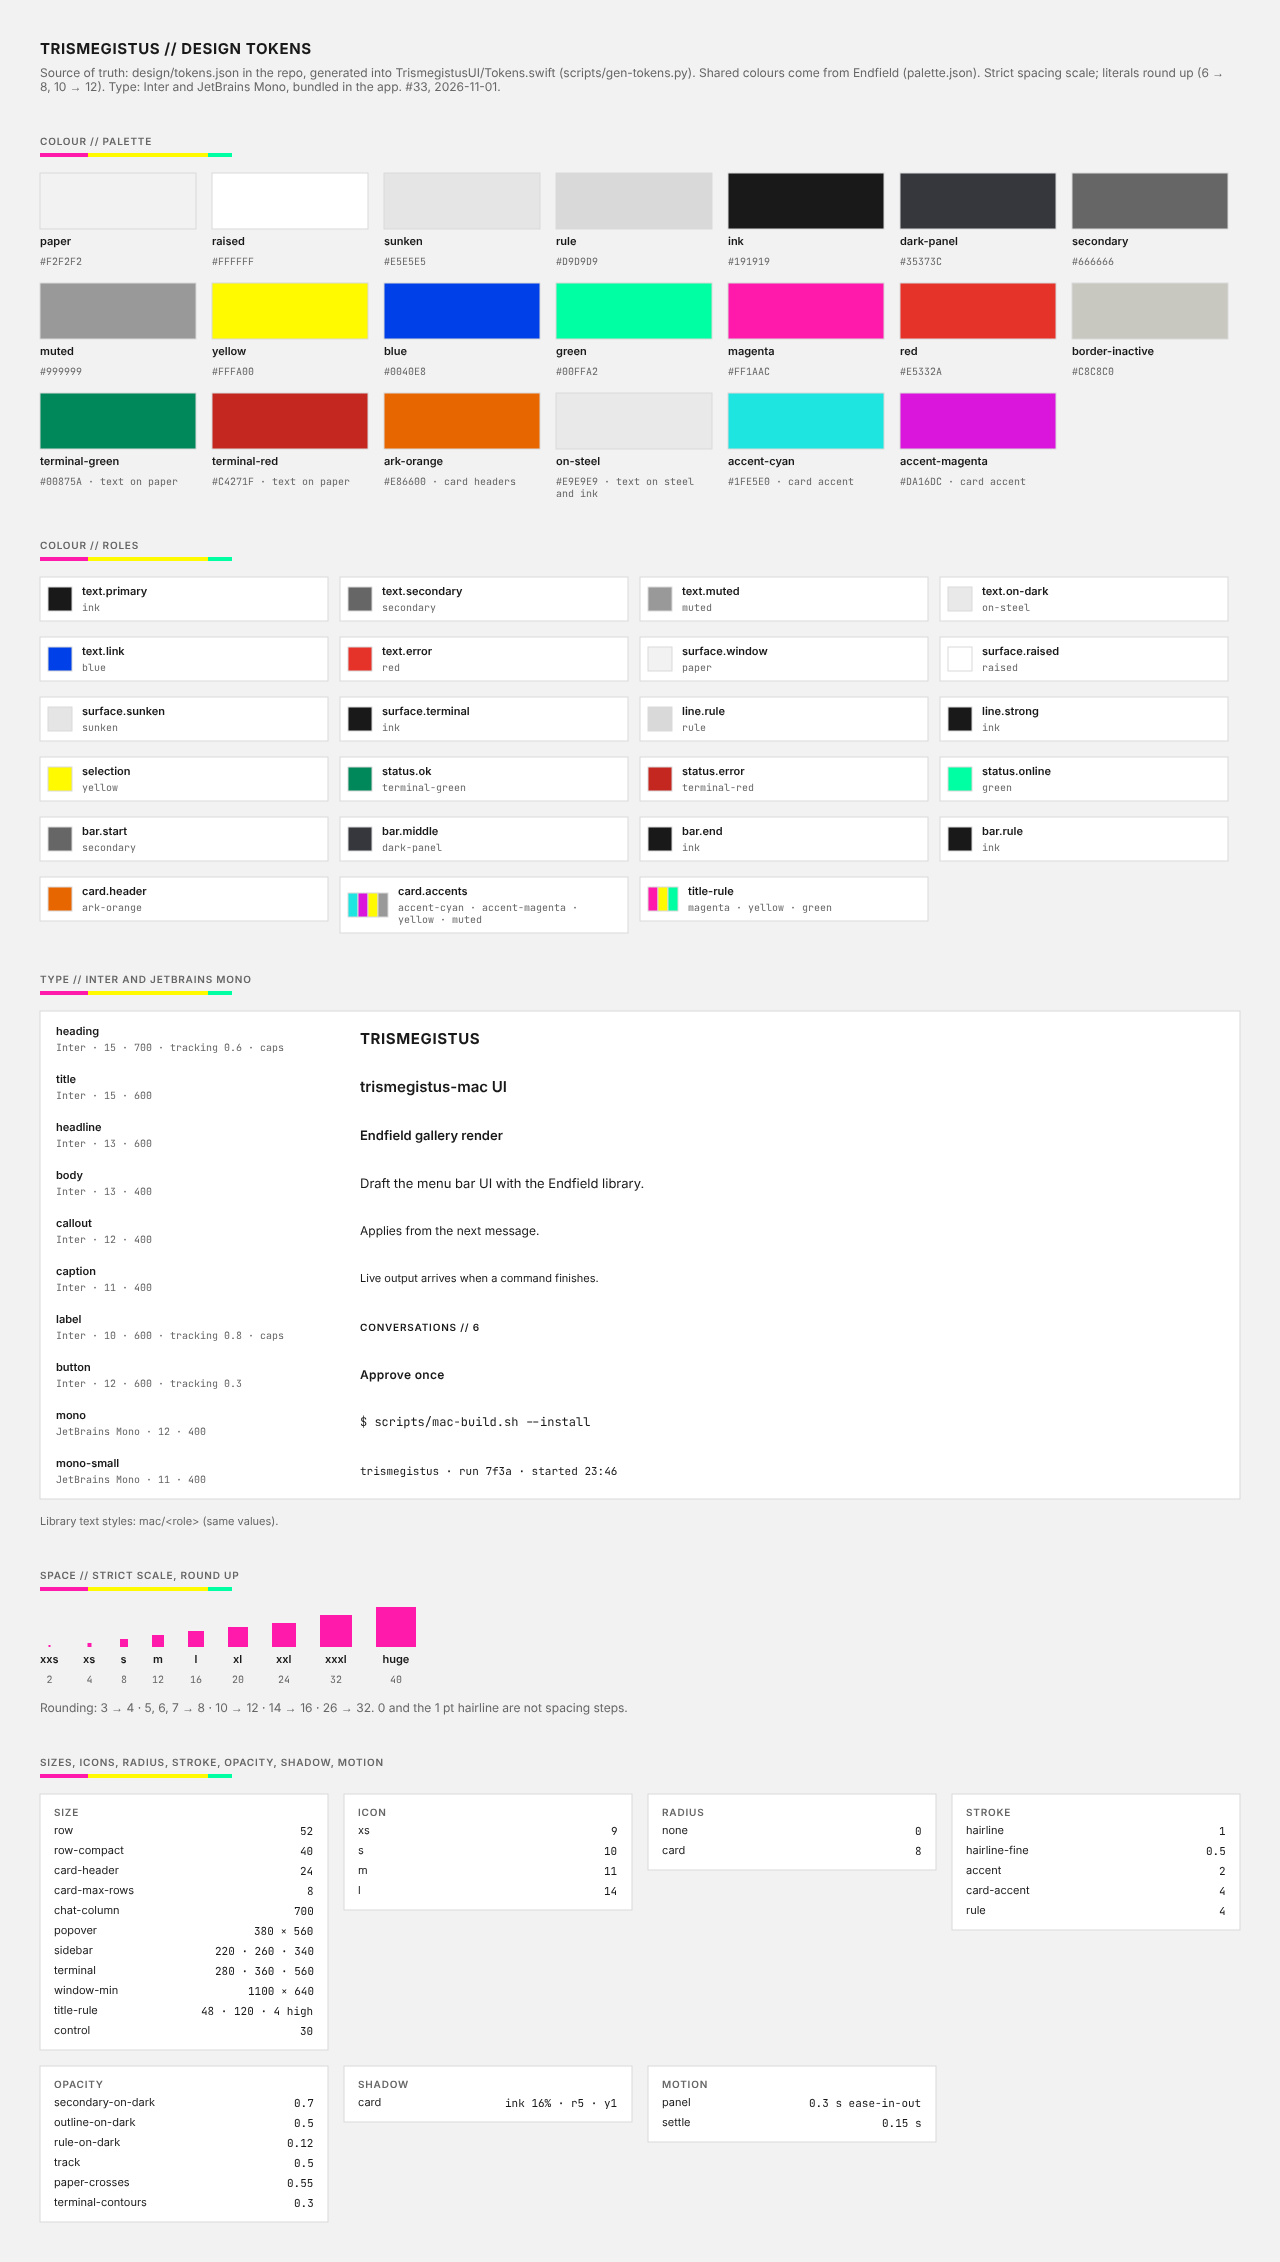
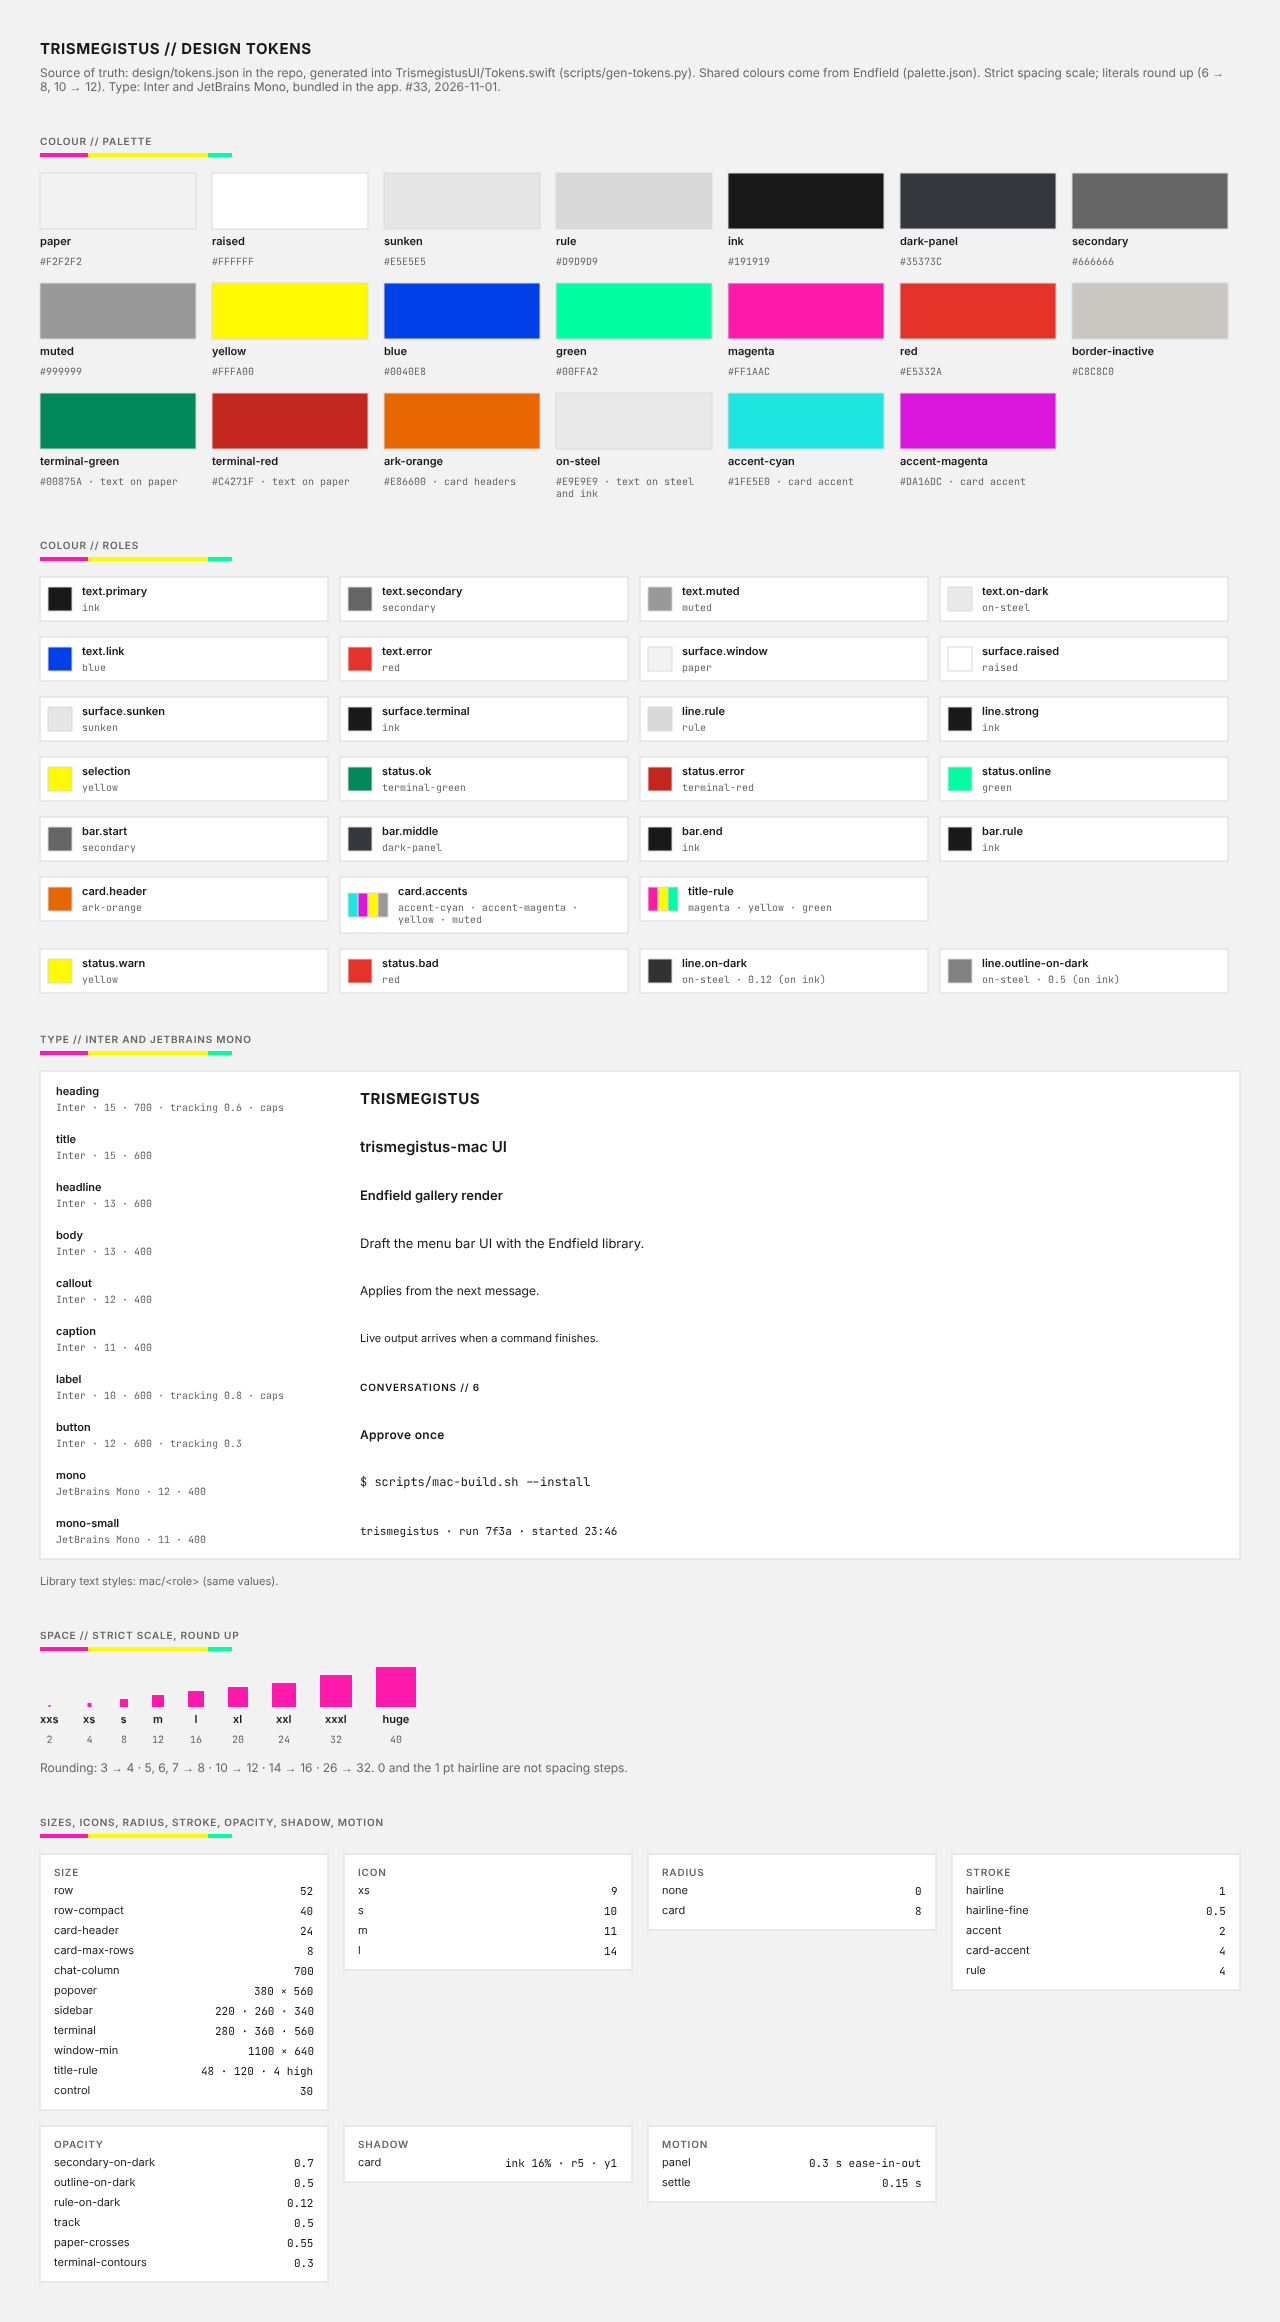
Design: #36's colour roles in Penpot (token set and Tokens page)
status.warn, status.bad, line.on-dark (on-steel at 0.12) and line.outline-on-dark (on-steel at 0.5) in
the token set "Trismegistus" (114 tokens; the rgba values keep their opacity when applied) and on the
Tokens page, drawn over ink.

Refs #36

diff --git a/design/ui-draft/README.md b/design/ui-draft/README.md
@@ -7,7 +7,7 @@ PNG exports of the Penpot draft (file "New File 1" in Penpot's Drafts project; i
 - `07-window.png`: the main window: conversations | chat | terminal (decided 2026-10-31, #4.1)
 - `07b-window-live.png`: the same window as the app draws it on 2026-10-31 (Penpot file "Trismegistus-mac", frame "07b window, live", 1600 wide): the steel top bar (`#666666` → `#35373C` → `#191919`, light text, the context meter and model menu on it, the terminal's title above the pane), the Endfield paper (0.5 pt crosses every 96×64 pt, contour lines) beside the 760 pt message column, and the ink terminal pane with `sunken` contours and orange item cards (folded by default, accent column, rounded top-right corner) (#29, #30, #31)
 - `07c-window-live.png`: the window as built for #32 (frame "07c window, live"): our own flat `sunken` sidebar with the Commands row on top and News among the conversations, the selected row white with a yellow border, the steel bar across the whole window with its trailing items at the right edge (light sidebar and settings icons), the terminal's title row inside the pane, the title rule under the conversation header with its subtitle, a 700 pt message column, plain Hermes messages, key hints under the input, 24 pt between terminal cards
-- `tokens.png`: the Tokens page (#33): palette and roles, the 10 text styles on Inter and JetBrains Mono, the strict spacing scale, sizes, icons, radius, stroke, opacity, shadow, motion; the same values as `design/tokens.json`, also as the Penpot token set "Trismegistus" (110 tokens)
+- `tokens.png`: the Tokens page (#33): palette and roles, the 10 text styles on Inter and JetBrains Mono, the strict spacing scale, sizes, icons, radius, stroke, opacity, shadow, motion; the same values as `design/tokens.json`, also as the Penpot token set "Trismegistus" (114 tokens; #36 added status.warn, status.bad, line.on-dark and line.outline-on-dark)
 - `07d-window-commands-log.png`: the Commands log (frame "07d window, commands log"): every tool call, no Commands / All tools filter; Failed, search and the conversation picker; each call as a conversation link plus an item card, 20 pt apart; terminal pane closed
 
 These are a review artifact, not assets: the app draws everything in SwiftUI.
